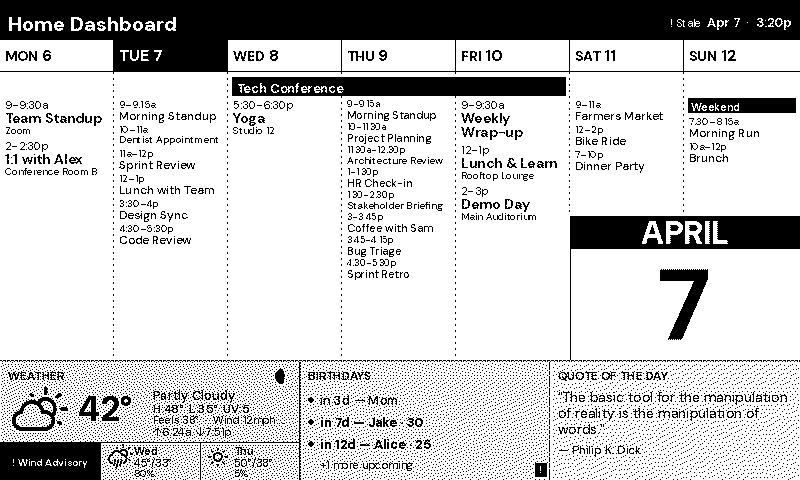
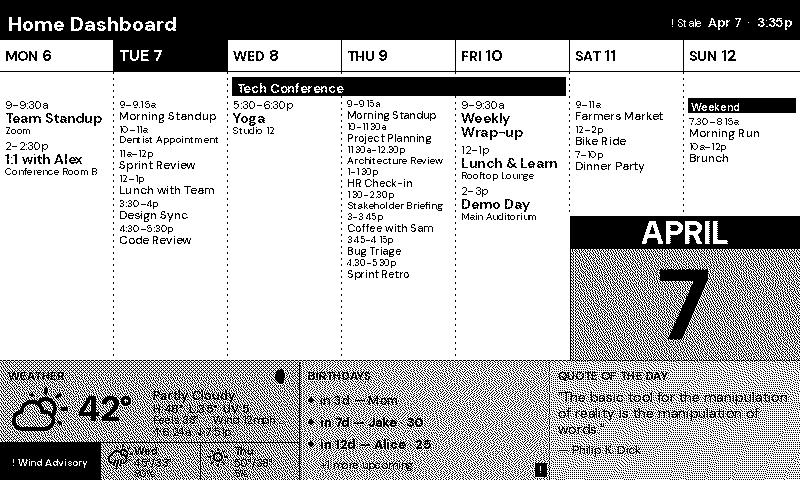
Rework graphite theme: much more visible greyscale effect
The original grey values (220-236) were too close to white, producing only
~14% black-pixel density after dithering — nearly invisible. This revision
makes the greyscale effect clearly perceptible:

- Add date cell wash: the combined Sat/Sun APRIL/7 zone is painted at grey
  155 (~37% density), framing the large day numeral in a tonal field
- Darken panel backgrounds: weather 160 (~37%), birthdays 175 (~31%),
  info 190 (~25%) — clearly distinct from each other and from the white
  calendar above
- Adjust overlay separators to match the new darker tone palette

Regenerate theme_graphite.png preview with floyd_steinberg mode to show
the visible halftone effect. Update themes.md description accordingly.

https://claude.ai/code/session_017UdbiGxNX8LdzgEvZESEJL

Changed region(s): [[0.0, 0.5, 1.0, 1.0], [0.8438, 0.0312, 1.0, 0.0625]]

diff --git a/src/render/themes/graphite.py b/src/render/themes/graphite.py
@@ -4,36 +4,47 @@ The layout is identical to the default (800×480, 40px header, 320px week view,
 120px three-zone bottom bar) but the canvas uses ``canvas_mode="L"`` so every
 pixel carries a full 0-255 luminance value before the final 1-bit quantization.
 
-Two greyscale-exclusive techniques are layered on top of the standard layout:
+Three greyscale-exclusive techniques are layered on top of the standard layout:
+
+**Date cell wash (background_fn)**
+  The combined Sat/Sun date cell (the large "APRIL / 7" zone in the lower-right
+  corner of the week view) receives a medium-grey fill (155) before the week
+  component renders.  The component draws the inverted APRIL band and the big
+  day-number on top; the grey shows through in the open space around and below
+  the numerals, framing the date in a tonal field that is impossible in 1-bit.
+  After floyd_steinberg or ordered dithering this produces a clearly visible
+  ~37 % black-pixel halftone; after threshold it collapses to white (graceful
+  degradation, no visual difference from default).
 
 **Tonal panel washes (background_fn)**
-  The three bottom panels receive distinct light-grey fills (weather: 220,
-  birthdays: 228, info: 236) before any component renders.  Where components
-  leave whitespace — around labels, between quote lines, between weather rows —
-  the underlying grey tint shows through, visually separating each zone from
-  the clean white calendar above in a way that is impossible in 1-bit mode.
+  The three bottom panels each receive a distinct grey fill — weather at 160
+  (~37 %), birthdays at 175 (~31 %), info at 190 (~25 %) — before any component
+  renders.  Because the components draw only text and borders, not background
+  fills, the grey persists in all the open whitespace around labels, between
+  event rows, and beside the weather icon.  The result is three tonal zones that
+  are visually distinct from each other and from the clean white calendar above.
 
 **Soft structural borders (overlay_fn)**
-  After all components have drawn their solid-black structural lines, the
-  overlay repaints those same borders with graduated grey values (two-tone
-  shadow: dark-grey / mid-grey) so separators read as shadows rather than hard
-  edges.  The week-view / bottom-bar divider gets the same treatment, giving
-  the layout a subtle sense of depth.
+  After all components have drawn their solid-black (0) structural lines, the
+  overlay repaints those dividers with graduated grey values — a two-tone shadow
+  (dark 80 / light 150) at the horizontal week-view / bottom-bar boundary, and a
+  mid-grey (115) for the two vertical panel separators — so dividers read as
+  shadows rather than hard black rules.
 
-**Quantization behaviour**
-  ``threshold``       → panel washes disappear (>128 = white); grey separators
-                        survive as a single mid-grey pixel row.
-  ``floyd_steinberg`` → beautiful error-diffusion grain on each bottom panel;
-                        the tonal differences between weather / birthdays / info
-                        become clearly visible.
-  ``ordered``         → Bayer dot-matrix texture on the panels; regular,
-                        mechanical and distinctly greyscale in character.
+**Quantization guide**
+  ``threshold``       → date cell and panel washes collapse to white (>128);
+                        the dark row of the two-tone border (80) survives as
+                        a single thin line.  Appearance matches the default.
+  ``floyd_steinberg`` → recommended; all three grey zones show as clearly
+                        visible, softly-grained tonal fields.
+  ``ordered``         → Bayer dot-matrix texture on each grey zone; regular,
+                        mechanical, and distinctly greyscale in character.
 
 Set ``display.quantization_mode: floyd_steinberg`` (or ``ordered``) in
 ``config/config.yaml`` to unlock the full visual effect.
 
-Fonts: DM Sans — a crisp geometric variable sans that reads cleanly at every
-size and differentiates this theme from the Plus Jakarta Sans default.
+Fonts: DM Sans — a crisp geometric variable sans that differentiates this theme
+from the Plus Jakarta Sans default.
 """
 
 from src.render.theme import ComponentRegion, Theme, ThemeLayout, ThemeStyle
@@ -41,13 +52,20 @@ from src.render.theme import ComponentRegion, Theme, ThemeLayout, ThemeStyle
 # ---------------------------------------------------------------------------
 # Grey tones used throughout — collected here so they're easy to tune.
 # ---------------------------------------------------------------------------
-_GREY_WEATHER = 220   # darkest panel tint — weather has the most visual density
-_GREY_BIRTHDAY = 228  # mid tint
-_GREY_INFO = 236      # lightest tint — quote panel is the quietest zone
 
-_BORDER_DARK = 80     # first (darker) row of the two-tone separator shadow
-_BORDER_MID = 145     # second (lighter) row — fades toward the panel background
-_BORDER_VSEP = 110    # vertical panel separator grey
+# Date cell: the APRIL/7 area in the lower-right of the week view.
+# 155 → ~37 % black pixels after floyd_steinberg.
+_GREY_DATE_CELL = 155
+
+# Bottom panel backgrounds — three distinct, clearly-separable tones.
+_GREY_WEATHER = 160   # darkest (~37 % density)
+_GREY_BIRTHDAY = 175  # mid     (~31 % density)
+_GREY_INFO = 190      # lightest (~25 % density)
+
+# Overlay border values.
+_BORDER_DARK = 80     # darker row of the two-tone horizontal shadow
+_BORDER_LIGHT = 150   # lighter row — fades toward panel background
+_BORDER_VSEP = 115    # vertical panel separator grey
 
 
 # ---------------------------------------------------------------------------
@@ -56,25 +74,54 @@ _BORDER_VSEP = 110    # vertical panel separator grey
 
 
 def _graphite_background(image, layout, style) -> None:
-    """Paint distinct grey fills on the three bottom panels."""
+    """Paint grey fills on the date cell and the three bottom panels."""
     from PIL import ImageDraw as _ID
 
     draw = _ID.Draw(image)
 
-    by = layout.weather.y   # top of bottom bar (360 in default layout)
-    bh = layout.weather.h   # height of bottom bar (120 in default layout)
+    wv = layout.week_view
+    W = wv.w
+    H_wv = wv.h
 
-    # Weather panel — darkest tint
-    wx, ww = layout.weather.x, layout.weather.w
-    draw.rectangle([wx, by, wx + ww - 1, by + bh - 1], fill=_GREY_WEATHER)
+    # ------------------------------------------------------------------
+    # Combined date cell (Sat + Sun lower half): the big "APRIL / 7" zone.
+    # Mirrors the geometry calculated inside draw_week():
+    #   header_h = max(24, H_wv * 32 // 320)
+    #   body_h = H_wv - header_h
+    #   date_section_h = body_h // 2
+    #   date_y = wv.y + header_h + body_h - date_section_h
+    #   sat_cx = wv.x + 5 * (W // 7)
+    # ------------------------------------------------------------------
+    col_w = W // 7
+    header_h = max(24, H_wv * 32 // 320)
+    body_h = H_wv - header_h
+    date_section_h = body_h // 2
+    date_y = wv.y + header_h + body_h - date_section_h
+    sat_cx = wv.x + 5 * col_w
 
-    # Birthdays panel — mid tint
-    bx, bbw = layout.birthdays.x, layout.birthdays.w
-    draw.rectangle([bx, by, bx + bbw - 1, by + bh - 1], fill=_GREY_BIRTHDAY)
+    draw.rectangle(
+        [sat_cx, date_y, wv.x + W - 1, wv.y + H_wv - 1],
+        fill=_GREY_DATE_CELL,
+    )
 
-    # Info / quote panel — lightest tint
-    ix, iw = layout.info.x, layout.info.w
-    draw.rectangle([ix, by, ix + iw - 1, by + bh - 1], fill=_GREY_INFO)
+    # ------------------------------------------------------------------
+    # Bottom bar panels — three tonal zones.
+    # ------------------------------------------------------------------
+    by = layout.weather.y
+    bh = layout.weather.h
+
+    draw.rectangle(
+        [layout.weather.x, by, layout.weather.x + layout.weather.w - 1, by + bh - 1],
+        fill=_GREY_WEATHER,
+    )
+    draw.rectangle(
+        [layout.birthdays.x, by, layout.birthdays.x + layout.birthdays.w - 1, by + bh - 1],
+        fill=_GREY_BIRTHDAY,
+    )
+    draw.rectangle(
+        [layout.info.x, by, layout.info.x + layout.info.w - 1, by + bh - 1],
+        fill=_GREY_INFO,
+    )
 
 
 # ---------------------------------------------------------------------------
@@ -86,23 +133,19 @@ def _graphite_overlay(draw, layout, style) -> None:
     """Repaint structural dividers with graduated grey values."""
     W = layout.canvas_w
     H = layout.canvas_h
-    by = layout.weather.y   # top of bottom bar
+    by = layout.weather.y   # top of bottom bar (360 in default layout)
 
     # ------------------------------------------------------------------
-    # Horizontal divider between week view and bottom bar.
-    # Two-tone shadow: a darker grey pixel sits just above a lighter one.
-    # Components drew solid-black (0) here; we replace with softer values.
+    # Horizontal divider above the bottom bar — two-tone shadow.
     # ------------------------------------------------------------------
     draw.line([(0, by), (W - 1, by)], fill=_BORDER_DARK)
-    draw.line([(0, by + 1), (W - 1, by + 1)], fill=_BORDER_MID)
+    draw.line([(0, by + 1), (W - 1, by + 1)], fill=_BORDER_LIGHT)
 
     # ------------------------------------------------------------------
     # Vertical separators between the three bottom panels.
-    # birthday_bar draws its right-edge vline at x0+w-1; weather draws none.
-    # We paint both separators in a mid-grey to unify the visual language.
     # ------------------------------------------------------------------
-    sep_wx = layout.birthdays.x          # weather | birthdays  (x=300)
-    sep_bx = layout.info.x - 1          # birthdays | info     (x=549)
+    sep_wx = layout.birthdays.x       # weather | birthdays  (x=300)
+    sep_bx = layout.info.x - 1       # birthdays | info     (x=549)
 
     for sx in (sep_wx, sep_bx):
         draw.line([(sx, by + 2), (sx, H - 1)], fill=_BORDER_VSEP)

diff --git a/docs/themes.md b/docs/themes.md
@@ -127,25 +127,29 @@ event bars. 7-day calendar grid with weather/birthdays/quote along the bottom.
 
 The default layout rendered in native **8-bit greyscale** (`canvas_mode="L"`). The structural
 layout is identical to `default` — 40px header, 320px week grid, 120px three-panel bottom bar
-— but two greyscale-exclusive techniques add visual depth impossible in strict 1-bit mode:
+— but three greyscale-exclusive techniques add tonal depth impossible in strict 1-bit mode:
 
+- **Date cell wash**: the combined Sat/Sun date cell (the large "APRIL / 7" zone in the
+  lower-right of the week view) receives a medium-grey fill before the calendar component
+  renders. The inverted APRIL band and the large day numeral are drawn on top; the grey shows
+  through in the open space framing the date.
 - **Tonal panel washes**: the weather, birthdays, and info panels each receive a distinct
-  light-grey background fill (weather: darkest, info: lightest) before components render.
-  Where components leave whitespace — around labels, between quote lines, between weather rows
-  — the underlying grey tint shows through, visually separating the info zone from the clean
-  white calendar above.
+  grey fill (weather: darkest ~37%, birthdays: ~31%, info: ~25%) before components render.
+  Where components leave whitespace — around labels, between quote lines, beside the weather
+  icon — the underlying grey tint shows through, visually separating the info zone from the
+  clean white calendar above.
 - **Soft structural borders**: after all components have drawn their solid-black lines, the
   overlay repaints those dividers with graduated grey values (two-tone shadow at the
   week-view/bottom-bar boundary; mid-grey vertical panel separators), so borders read as
   shadows rather than hard edges.
 
-The full effect is controlled by `display.quantization_mode` in `config.yaml`:
+The full effect requires dithering. Set `display.quantization_mode` in `config.yaml`:
 
 | Mode | Effect |
 |---|---|
-| `threshold` (default) | Panel washes disappear (>128 → white); grey separators survive as a single mid-grey row |
-| `floyd_steinberg` | Beautiful error-diffusion grain on each bottom panel; tonal differences become clearly visible |
-| `ordered` | Bayer dot-matrix texture on the panels — regular, mechanical, distinctly greyscale |
+| `threshold` (default) | All grey zones collapse to white (>128); theme degrades gracefully to match default |
+| `floyd_steinberg` | Recommended — clearly visible error-diffusion halftone on the date cell and all three panels |
+| `ordered` | Bayer dot-matrix texture — regular, mechanical, distinctly greyscale |
 
 Font: DM Sans geometric variable sans (same as `minimalist`, `weather`, and `fuzzyclock`).
 
